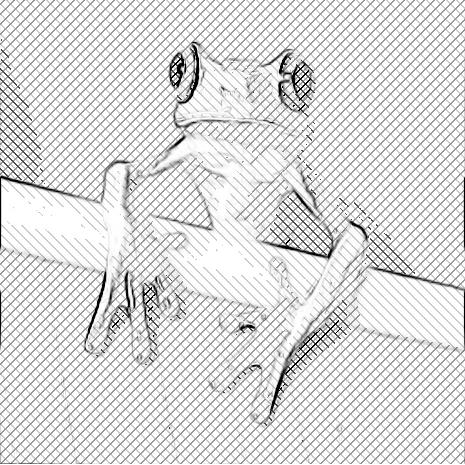
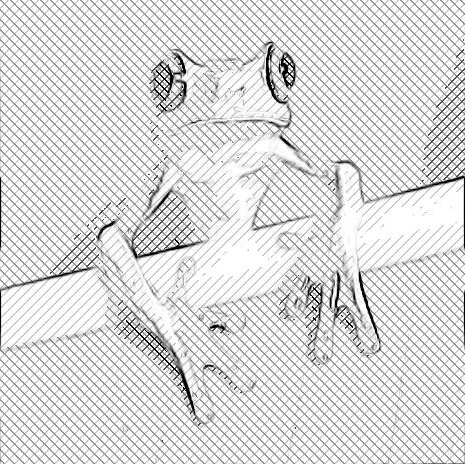
GLSL で画像にフィルタをかけてみるテスト（改10）

diff --git a/cx20/nBtj/index.html b/cx20/nBtj/index.html
@@ -58,6 +58,7 @@ float d = 1.0; // kernel offset
 float lookup(vec2 p, float dx, float dy)
 {
     vec2 uv = (p.xy + vec2(dx * d, dy * d)) / resolution.xy;
+    uv.x = -uv.x;  // TODO: Investigate where to reverse
     vec4 c = texture2D(texture, -uv.xy);
     
     // return as luma
@@ -77,6 +78,7 @@ void main()
     vec2 dstCoord = vec2(coordX, coordY);
     vec2 srcCoord = vec2(coordX, coordY / ratio);    
     vec2 uv = srcCoord.xy;
+    uv.x = -uv.x;  // TODO: Investigate where to reverse
 
     vec3 res = vec3(1.0, 1.0, 1.0);
     vec4 tex = texture2D(texture, -uv);
